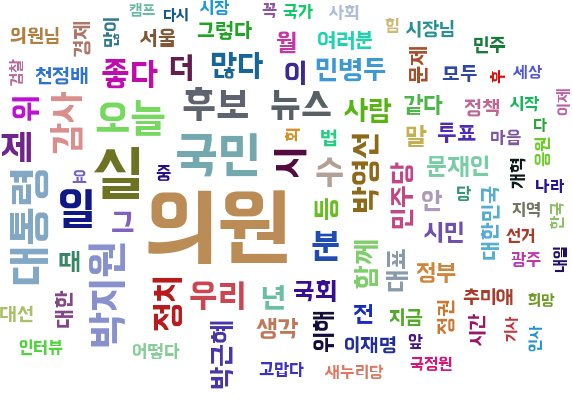
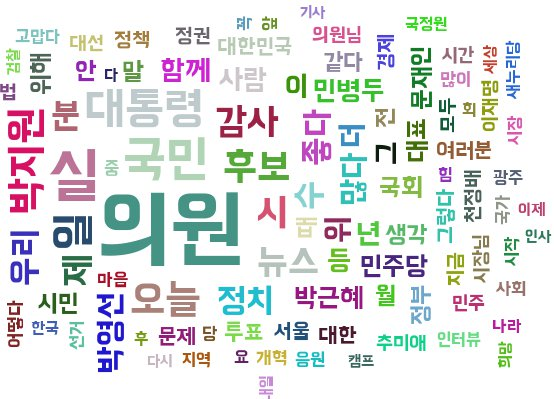
정치인 추가 및 정당명 수정

diff --git a/server/app/templates/integration.html b/server/app/templates/integration.html
@@ -48,11 +48,18 @@
         function button_generate(inclination, json){
             data = JSON.parse(json);
             var i;
-            var left_politician = ["김부겸","김성식","김진표","문재인","민병두","박범계","박영선",
+            var left_politician = [
+                "김부겸","김성식","김진표","문재인","민병두","박범계","박영선",
                 "박원순","박지원","송영길","안철수","안희정","이재명","정동영",
-                "정세균","진영","천정배","추미애","표창원"]
-            var right_politician = ["김무성","김진태","나경원","남경필","서청원","심재철","원유철",
-                 "원희룡","이준석","장제원","정우택","정진석","최경환"];
+                "정세균","진영","천정배","추미애","표창원", "김경진", "주승용",
+                "안민석","이정미","박주민","심상정","김한길"
+            ]
+            var right_politician = [
+                "김무성","김진태","나경원","남경필","서청원","심재철","원유철",
+                "원희룡","이준석","장제원","정우택","정진석","최경환","주호영",
+                "하태경","이완영","유승민","황영철","김문수","이혜훈","정병국",
+                "이종구"
+            ]
             if(inclination.substring(0,4) == "left"){
                 for(i=0;i<left_politician.length;i++){
                     if(data.indexOf(left_politician[i]) > -1){
@@ -158,7 +165,7 @@
                                         <div class="row">
                                             <div id="left_btn_list" class="col-md-6 text-center">
                                                 <h3 style="margin-top:-5px; margin-bottom: -5px;">진보
-                                                    <small>더민주/국민의당</small>
+                                                    <small>더불어민주당/국민의당/정의당</small>
                                                 </h3>
                                                 <div class="col-md-12"><hr style="margin-top: 10px; margin-bottom: 10px;"></div>
                                                 <div class="col-md-6">
@@ -179,7 +186,7 @@
 
                                             <div id="right_btn_list" class="col-md-6 text-center">
                                                 <h3 style="margin-top:-5px; margin-bottom: -5px;">보수
-                                                    <small>새누리당</small>
+                                                    <small>자유한국당/바른정당</small>
                                                 </h3>
                                                 <div class="col-md-12"><hr style="margin-top: 10px; margin-bottom: 10px;"></div>
                                                 <div class="col-md-6">
@@ -223,7 +230,7 @@
             </div>
             <div class="col-lg-6 text-center">
                 <h2>진보
-                    <small>더민주/국민의당</small>
+                    <small>더불어민주당/국민의당/정의당</small>
                 </h2>
 
                 <div style="height: auto; width: 90%; border:3px solid black;padding: 10px;margin: auto;">
@@ -279,7 +286,7 @@
             </div>
             <div class="col-lg-6 text-center">
                 <h2>보수
-                    <small>새누리당</small>
+                    <small>자유한국당/바른정당</small>
                 </h2>
 
                 <div style="height: auto; width: 90%; border:3px solid black;padding: 10px;margin: auto;">
@@ -511,11 +518,18 @@
 
     <script>
         function resetHandler(){
-            var left_politician = ["김부겸","김성식","김진표","문재인","민병두","박범계","박영선",
+            var left_politician = [
+                "김부겸","김성식","김진표","문재인","민병두","박범계","박영선",
                 "박원순","박지원","송영길","안철수","안희정","이재명","정동영",
-                "정세균","진영","천정배","추미애","표창원"]
-            var right_politician = ["김무성","김진태","나경원","남경필","서청원","심재철","원유철",
-                 "원희룡","이준석","장제원","정우택","정진석","최경환"];
+                "정세균","진영","천정배","추미애","표창원", "김경진", "주승용",
+                "안민석","이정미","박주민","심상정","김한길"
+            ];
+            var right_politician = [
+                "김무성","김진태","나경원","남경필","서청원","심재철","원유철",
+                "원희룡","이준석","장제원","정우택","정진석","최경환","주호영",
+                "하태경","이완영","유승민","황영철","김문수","이혜훈","정병국",
+                "이종구"
+            ];
             var num;
             for(num=0;num<left_politician.length;num++){
                 if($("#left-ck-"+num).prop("checked")){
@@ -578,11 +592,18 @@
         function left_all_select(){
             $('input:checkbox[name="left_btn_list-ck"]').each(function() {
                 this.checked = true; //checked 처리
-                var left_politician = ["김부겸","김성식","김진표","문재인","민병두","박범계","박영선",
+                var left_politician = [
+                    "김부겸","김성식","김진표","문재인","민병두","박범계","박영선",
                     "박원순","박지원","송영길","안철수","안희정","이재명","정동영",
-                    "정세균","진영","천정배","추미애","표창원"]
-                var right_politician = ["김무성","김진태","나경원","남경필","서청원","심재철","원유철",
-                     "원희룡","이준석","장제원","정우택","정진석","최경환"];
+                    "정세균","진영","천정배","추미애","표창원", "김경진", "주승용",
+                    "안민석","이정미","박주민","심상정","김한길"
+                ];
+                var right_politician = [
+                    "김무성","김진태","나경원","남경필","서청원","심재철","원유철",
+                    "원희룡","이준석","장제원","정우택","정진석","최경환","주호영",
+                    "하태경","이완영","유승민","황영철","김문수","이혜훈","정병국",
+                    "이종구"
+                ];
                 var num;
                 for(num=0;num<left_politician.length;num++){
                     $("#left-btn-"+num).attr('class', 'btn btn-primary btn-block');
@@ -595,11 +616,18 @@
         function right_all_select(){
             $('input:checkbox[name="right_btn_list-ck"]').each(function() {
                 this.checked = true; //checked 처리
-                var left_politician = ["김부겸","김성식","김진표","문재인","민병두","박범계","박영선",
+                var left_politician = [
+                    "김부겸","김성식","김진표","문재인","민병두","박범계","박영선",
                     "박원순","박지원","송영길","안철수","안희정","이재명","정동영",
-                    "정세균","진영","천정배","추미애","표창원"]
-                var right_politician = ["김무성","김진태","나경원","남경필","서청원","심재철","원유철",
-                     "원희룡","이준석","장제원","정우택","정진석","최경환"];
+                    "정세균","진영","천정배","추미애","표창원", "김경진", "주승용",
+                    "안민석","이정미","박주민","심상정","김한길"
+                ];
+                var right_politician = [
+                    "김무성","김진태","나경원","남경필","서청원","심재철","원유철",
+                    "원희룡","이준석","장제원","정우택","정진석","최경환","주호영",
+                    "하태경","이완영","유승민","황영철","김문수","이혜훈","정병국",
+                    "이종구"
+                ];
                 var num;
                 for(num=0;num<right_politician.length;num++){
                     $("#right-btn-"+num).attr('class', 'btn btn-primary btn-block');
@@ -613,11 +641,18 @@
         function left_all_unselect(){
             $('input:checkbox[name="left_btn_list-ck"]').each(function() {
                 this.checked = false; //unchecked 처리
-                var left_politician = ["김부겸","김성식","김진표","문재인","민병두","박범계","박영선",
+                var left_politician = [
+                    "김부겸","김성식","김진표","문재인","민병두","박범계","박영선",
                     "박원순","박지원","송영길","안철수","안희정","이재명","정동영",
-                    "정세균","진영","천정배","추미애","표창원"]
-                var right_politician = ["김무성","김진태","나경원","남경필","서청원","심재철","원유철",
-                     "원희룡","이준석","장제원","정우택","정진석","최경환"];
+                    "정세균","진영","천정배","추미애","표창원", "김경진", "주승용",
+                    "안민석","이정미","박주민","심상정","김한길"
+                ];
+                var right_politician = [
+                    "김무성","김진태","나경원","남경필","서청원","심재철","원유철",
+                    "원희룡","이준석","장제원","정우택","정진석","최경환","주호영",
+                    "하태경","이완영","유승민","황영철","김문수","이혜훈","정병국",
+                    "이종구"
+                ];
                 var num;
                 for(num=0;num<left_politician.length;num++){
                     $("#left-btn-"+num).attr('class', 'btn btn-default btn-block');
@@ -630,11 +665,18 @@
         function right_all_unselect(){
             $('input:checkbox[name="right_btn_list-ck"]').each(function() {
                 this.checked = false; //unchecked 처리
-                var left_politician = ["김부겸","김성식","김진표","문재인","민병두","박범계","박영선",
+                var left_politician = [
+                    "김부겸","김성식","김진표","문재인","민병두","박범계","박영선",
                     "박원순","박지원","송영길","안철수","안희정","이재명","정동영",
-                    "정세균","진영","천정배","추미애","표창원"]
-                var right_politician = ["김무성","김진태","나경원","남경필","서청원","심재철","원유철",
-                     "원희룡","이준석","장제원","정우택","정진석","최경환"];
+                    "정세균","진영","천정배","추미애","표창원", "김경진", "주승용",
+                    "안민석","이정미","박주민","심상정","김한길"
+                ];
+                var right_politician = [
+                    "김무성","김진태","나경원","남경필","서청원","심재철","원유철",
+                    "원희룡","이준석","장제원","정우택","정진석","최경환","주호영",
+                    "하태경","이완영","유승민","황영철","김문수","이혜훈","정병국",
+                    "이종구"
+                ];
                 var num;
                 for(num=0;num<right_politician.length;num++){
                     $("#right-btn-"+num).attr('class', 'btn btn-default btn-block');

diff --git a/server/app/run.py b/server/app/run.py
@@ -14,34 +14,53 @@ app = Flask(__name__)
 ***REMOVED***
 
 # 정치인 리스트 및 딕셔너리
-politician_dic={"김부겸":"hopekbk", "김성식":"okkimss", "김진표":"jinpyokim",
-          "문재인":"moonriver365", "민병두":"bdmin1958", "박범계":"bkfire1004",
-          "박영선":"Park_Youngsun", "박원순":"wonsoonpark", "박지원":"jwp615",
-          "송영길":"Bulloger", "안철수":"cheolsoo0919", "안희정":"steelroot",
-          "이재명":"Jaemyung_Lee","정동영":"coreacdy","정세균":"sk0926",
-          "진영":"Chinyoung0413", "천정배":"jb_1000", "추미애":"choomiae",
-          "표창원":"DrPyo",
-          "김무성":"kimmoosung","김진태":"jtkim1013","나경원":"Nakw",
-          "남경필":"yesKP","서청원":"scw0403","심재철":"cleanshim",
-          "원유철":"won6767","원희룡":"wonheeryong","이준석":"junseokandylee",
-          "장제원":"Changjewon","정우택":"bigwtc","정진석":"js0904",
-          "최경환":"khwanchoi"}
+politician_dic={
+    "김부겸":"hopekbk", "김성식":"okkimss", "김진표":"jinpyokim",
+    "문재인":"moonriver365", "민병두":"bdmin1958", "박범계":"bkfire1004",
+    "박영선":"Park_Youngsun", "박원순":"wonsoonpark", "박지원":"jwp615",
+    "송영길":"Bulloger", "안철수":"cheolsoo0919", "안희정":"steelroot",
+    "이재명":"Jaemyung_Lee","정동영":"coreacdy","정세균":"sk0926",
+    "진영":"Chinyoung0413", "천정배":"jb_1000", "추미애":"choomiae",
+    "표창원":"DrPyo", "김경진":"2016kimkj", "주승용":"joo350",
+    "안민석":"eduhimang", "이정미":"jinbo27", "박주민":"yoeman6310",
+    "심상정":"sangjungsim", "김한길":"hangillo",
+    "김무성":"kimmoosung","김진태":"jtkim1013","나경원":"Nakw",
+    "남경필":"yesKP","서청원":"scw0403","심재철":"cleanshim",
+    "원유철":"won6767","원희룡":"wonheeryong","이준석":"junseokandylee",
+    "장제원":"Changjewon","정우택":"bigwtc","정진석":"js0904",
+    "최경환":"khwanchoi", "주호영":"sangtoil", "하태경":"taekyungh",
+    "이완영":"yiwy57", "유승민":"yooseongmin2017", "황영철":"hhhyc",
+    "김문수":"kimmoonsoo1", "이혜훈":"leehyehoon", "정병국":"withbg",
+    "이종구":"lee_jongkoo"
+}
+left_politician = [
+    "김부겸","김성식","김진표","문재인","민병두","박범계","박영선",
+    "박원순","박지원","송영길","안철수","안희정","이재명","정동영",
+    "정세균","진영","천정배","추미애","표창원", "김경진", "주승용",
+    "안민석","이정미","박주민","심상정","김한길"
+]
+left_Screen_Name = [
+    "hopekbk", "okkimss", "jinpyo_kim", "moonriver365",
+    "bdmin1958", "bkfire1004", "Park_Youngsun", "wonsoonpark",
+    "jwp615", "Bulloger", "cheolsoo0919", "steelroot",
+    "Jaemyung_Lee","coreacdy","sk0926", "Chinyoung0413",
+    "jb_1000", "choomiae", "DrPyo", "2016kimkj", "joo350",
+    "eduhimang","jinbo27","yoeman6310","sangjungsim","hangillo"
+]
 
-left_politician = ["김부겸","김성식","김진표","문재인","민병두","박범계","박영선",
-                "박원순","박지원","송영길","안철수","안희정","이재명","정동영",
-                "정세균","진영","천정배","추미애","표창원"]
-left_Screen_Name = ["hopekbk", "okkimss", "jinpyo_kim", "moonriver365",
-                    "bdmin1958", "bkfire1004", "Park_Youngsun", "wonsoonpark",
-                    "jwp615", "Bulloger", "cheolsoo0919", "steelroot",
-                    "Jaemyung_Lee","coreacdy","sk0926", "Chinyoung0413",
-                    "jb_1000", "choomiae", "DrPyo"]
-
-right_politician = ["김무성","김진태","나경원","남경필","서청원","심재철","원유철",
-                 "원희룡","이준석","장제원","정우택","정진석","최경환"]
-right_Screen_Name = ["kimmoosung","jtkim1013","Nakw","yesKP","scw0403",
-                    "cleanshim","won6767","wonheeryong","junseokandylee",
-                    "Changjewon","bigwtc","js0904","khwanchoi"]
-
+right_politician = [
+    "김무성","김진태","나경원","남경필","서청원","심재철","원유철",
+    "원희룡","이준석","장제원","정우택","정진석","최경환","주호영",
+    "하태경","이완영","유승민","황영철","김문수","이혜훈","정병국",
+    "이종구"
+]
+right_Screen_Name = [
+    "kimmoosung","jtkim1013","Nakw","yesKP","scw0403",
+    "cleanshim","won6767","wonheeryong","junseokandylee",
+    "Changjewon","bigwtc","js0904","khwanchoi","sangtoil","taekyungh",
+    "yiwy57","yooseongmin2017","hhhyc","kimmoonsoo1","leehyehoon",
+    "withbg","lee_jongkoo"
+]
 left_select = left_politician
 right_select = right_politician
 
@@ -211,4 +230,5 @@ def check_box():
 
 # 실행
 if __name__ == '__main__':
-    app.run(host="166.104.140.76", port=50000)
+    app.run()
+    #app.run(host="166.104.140.76", port=50000)
